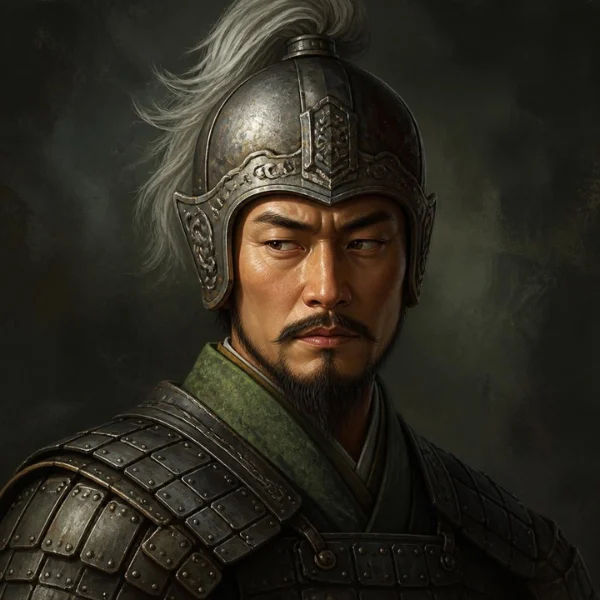
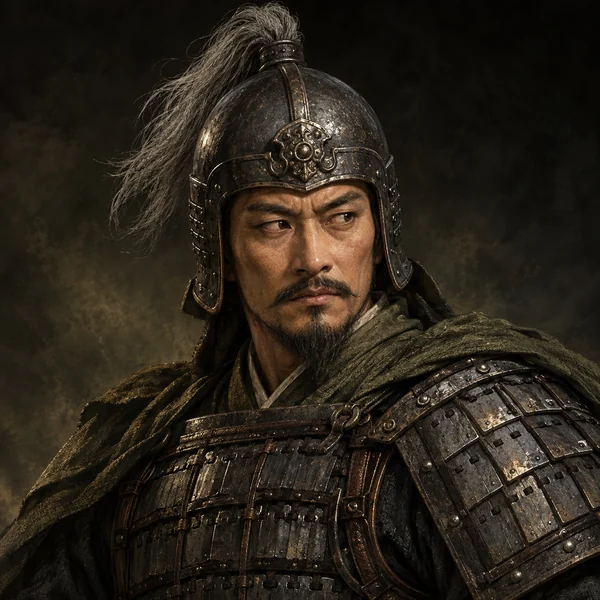
이름있는 장수 전용 전투 원화 28명 · 장비 초상 추가, 허저·맹달 초상 교체
Claude-Session: https://claude.ai/code/session_01MpPPA45aaRsErGnvA66if3

diff --git a/packages/web/src/officer-models.ts b/packages/web/src/officer-models.ts
@@ -46,6 +46,14 @@ export const officerManifest:OfficerEntry[]=[
   E('gao_shou','고수',c('gao_shou','bandit'),{duel:'officers/gao_shou-duel-v1.webp'}),E('guo_huai','곽회',c('guo_huai','archer'),{duel:'officers/guo_huai-duel-v1.webp'}),
   E('dai_ling','대릉',c('dai_ling','infantry'),{duel:'officers/dai_ling-duel-v1.webp'}),E('zhang_zhao','장소',c('zhang_zhao','strategist'),{duel:'officers/zhang_zhao-duel-v1.webp'}),E('zhuge_jin','제갈근',c('zhuge_jin','strategist'),{duel:'officers/zhuge_jin-duel-v1.webp'}),
   E('zhang_ba','장패',c('zhang_ba','cavalry'),{duel:'officers/zhang_ba-duel-v1.webp'}),E('cao_xiu','조휴',c('cao_xiu','cavalry'),{duel:'officers/cao_xiu-duel-v1.webp'}),E('cao_shuang','조상',c('cao_shuang','cavalry'),{duel:'officers/cao_shuang-duel-v1.webp'}),
+  // 이름있는 장수 전용 전신 원화(Codex 2026-10-11): 한 장 원화를 대기·준비·공격·피격 네 칸으로 펼친 시트.
+  E('jia_xu','가후',{wheelSage:['jia_xu-battle-v1.webp',384,384,1]}),E('yu_jin','우금',{spearman:['yu_jin-battle-v1.webp',384,384,1]}),E('yue_jin','악진',{infantry:['yue_jin-battle-v1.webp',384,384,1]}),E('deng_ai','등애',{infantry:['deng_ai-battle-v1.webp',384,384,1]}),
+  E('zhong_hui','종회',{fengshui:['zhong_hui-battle-v1.webp',384,384,1]}),E('hao_zhao','학소',{crossbow:['hao_zhao-battle-v1.webp',384,384,1]}),E('cao_hong','조홍',{infantry:['cao_hong-battle-v1.webp',384,384,1]}),E('cao_zhang','조창',{cavalry:['cao_zhang-battle-v1.webp',384,384,1]}),
+  E('wen_ping','문빙',{spearman:['wen_ping-battle-v1.webp',384,384,1]}),E('guan_ping','관평',{infantry:['guan_ping-battle-v1.webp',384,384,1]}),E('ma_dai','마대',{infantry:['ma_dai-battle-v1.webp',384,384,1]}),E('xu_sheng','서성',{spearman:['xu_sheng-battle-v1.webp',384,384,1]}),
+  E('ding_feng','정봉',{infantry:['ding_feng-battle-v1.webp',384,384,1]}),E('yan_liang','안량',{cavalry:['yan_liang-battle-v1.webp',384,384,1]}),E('wen_chou','문추',{cavalry:['wen_chou-battle-v1.webp',384,384,1]}),E('ju_shou','저수',{strategist:['ju_shou-battle-v1.webp',384,384,1]}),
+  E('tian_feng','전풍',{strategist:['tian_feng-battle-v1.webp',384,384,1]}),E('shen_pei','심배',{strategist:['shen_pei-battle-v1.webp',384,384,1]}),E('han_xin','한신',{spearman:['han_xin-battle-v1.webp',384,384,1]}),E('zhang_liang','장량',{strategist:['zhang_liang-battle-v1.webp',384,384,1]}),
+  E('xiao_he','소하',{fengshui:['xiao_he-battle-v1.webp',384,384,1]}),E('ying_bu','영포',{cavalry:['ying_bu-battle-v1.webp',384,384,1]}),E('peng_yue','팽월',{infantry:['peng_yue-battle-v1.webp',384,384,1]}),E('fan_kuai','번쾌',{cavalry:['fan_kuai-battle-v1.webp',384,384,1]}),
+  E('chen_ping','진평',{strategist:['chen_ping-battle-v1.webp',384,384,1]}),E('fan_zeng','범증',{strategist:['fan_zeng-battle-v1.webp',384,384,1]}),E('zhongli_mo','종리매',{cavalry:['zhongli_mo-battle-v1.webp',384,384,1]}),E('ji_bu','계포',{infantry:['ji_bu-battle-v1.webp',384,384,1]}),
 ];
 
 const legacySheets=[

diff --git a/packages/web/src/officer-factions.ts b/packages/web/src/officer-factions.ts
@@ -3,8 +3,8 @@ export type OfficerFaction='위'|'촉'|'오'|'군웅';
 export const OFFICER_FACTIONS:readonly OfficerFaction[]=['위','촉','오','군웅'];
 const of=(f:OfficerFaction,...ids:string[])=>ids.map(id=>[id,f] as const);
 export const OFFICER_FACTION:Record<string,OfficerFaction>=Object.fromEntries([
-  ...of('위','sima_yi','sima_yi_young','cao_zhen','sima_lang','sima_fang','sima_shi','sima_zhao','cao_cao','cao_pi','cao_rui','xu_chu','xiahou_dun','xiahou_yuan','zhang_liao','xu_huang','zhang_he','cao_ren','xun_yu','meng_da','wang_ling','guo_huai','cao_xiu','cao_shuang'),
-  ...of('촉','liu_bei','guan_yu','zhang_fei','wooden_zhuge','zhao_yun','huang_zhong','wei_yan','jiang_wei','pang_tong','ma_chao','ma_su','wang_ping','gao_xiang','meng_yan','dai_ling'),
-  ...of('오','sun_quan','zhou_yu','lu_xun','lu_meng','gan_ning','lu_su','huang_gai','lu_fan','sun_shao','zhu_ran','zhuge_ke','zhang_zhao','zhuge_jin','zhang_ba'),
-  ...of('군웅','lu_bu','xiang_yu','chen_gong','meng_huo','zhu_rong','gongsun_yuan','yuan_tan','yuan_shang','liu_bang','yang_ang','bi_yan','gao_shou'),
+  ...of('위','sima_yi','sima_yi_young','cao_zhen','sima_lang','sima_fang','sima_shi','sima_zhao','cao_cao','cao_pi','cao_rui','xu_chu','xiahou_dun','xiahou_yuan','zhang_liao','xu_huang','zhang_he','cao_ren','xun_yu','meng_da','wang_ling','guo_huai','cao_xiu','cao_shuang','jia_xu','yu_jin','yue_jin','deng_ai','zhong_hui','hao_zhao','cao_hong','cao_zhang','wen_ping'),
+  ...of('촉','liu_bei','guan_yu','zhang_fei','wooden_zhuge','zhao_yun','huang_zhong','wei_yan','jiang_wei','pang_tong','ma_chao','ma_su','wang_ping','gao_xiang','meng_yan','dai_ling','guan_ping','ma_dai'),
+  ...of('오','sun_quan','zhou_yu','lu_xun','lu_meng','gan_ning','lu_su','huang_gai','lu_fan','sun_shao','zhu_ran','zhuge_ke','zhang_zhao','zhuge_jin','zhang_ba','xu_sheng','ding_feng'),
+  ...of('군웅','lu_bu','xiang_yu','chen_gong','meng_huo','zhu_rong','gongsun_yuan','yuan_tan','yuan_shang','liu_bang','yang_ang','bi_yan','gao_shou','yan_liang','wen_chou','ju_shou','tian_feng','shen_pei','han_xin','zhang_liang','xiao_he','ying_bu','peng_yue','fan_kuai','chen_ping','fan_zeng','zhongli_mo','ji_bu'),
 ]);

diff --git a/packages/web/test/officer-models.test.ts b/packages/web/test/officer-models.test.ts
@@ -24,8 +24,8 @@ function webpSize(file:URL){
 describe('장수별 전투 SD와 대결 모델',()=>{
   const players=[['sima_yi','사마의'],['cao_zhen','조진'],['sima_lang','사마랑'],['sima_fang','사마방'],['sima_shi','사마사'],['sima_zhao','사마소']] as const;
 
-  it('대상 64명과 모든 공개 시트를 색인한다',()=>{
-    expect(officerManifest).toHaveLength(64);
+  it('대상 92명(전용 전신 원화 28명 포함)과 모든 공개 시트를 색인한다',()=>{
+    expect(officerManifest).toHaveLength(92);
     const sheets=new Set(officerModelSheets.map(s=>s.id));
     for(const entry of officerManifest)for(const battle of Object.values(entry.battle))expect(sheets.has(battle.sheet),battle.sheet).toBe(true);
   });

diff --git a/docs/tech/지속개발-현황.md b/docs/tech/지속개발-현황.md
@@ -1613,6 +1613,13 @@ npm run dev → http://127.0.0.1:5173. Windows 대괄호 경로는 PowerShell -L
   - 가상 전장 81곳 평균 99.5%(최저 90%). 외전 33개 90~100%(10판).
   - `expedition-objective-play.test.ts`에 규칙판 7 외전 시험을 더했다.
 
+## 이름있는 장수 전용 원화 28명 · 장비 초상 (2026-10-11)
+
+- Codex가 sama 저장소 `codex/officer-portraits` 브랜치(옛 코드 기반)에 올린 그림을 이 게임으로 옮겼다. 코드는 옛 코드에 맞춘 것이라 가져오지 않고, 그림만 지금 구조에 연결했다.
+- 전투 원화 28명(가후·우금·악진·등애·종회·학소·조홍·조창·문빙·관평·마대·서성·정봉·안량·문추·저수·전풍·심배·한신·장량·소하·영포·팽월·번쾌·진평·범증·종리매·계포): 512×512 한 장 원화를 384칸 네 칸 시트(대기·준비·공격·피격, 발끝 축 기울기)로 펼쳐 `public/officers/<id>-battle-v1.webp`에 두고 `officerManifest`·`manifest.json`·`OFFICER_FACTION`에 등록. 전장·일기토·설전에서 전용 모습으로 보인다.
+- 초상: 장비 새 초상(`zhang-fei.webp`), 허저·맹달 초상 교체(출처 기록 없던 옛 그림 대신 새로 그린 것). 2.5MB PNG를 600×600 webp로 줄였다.
+- 남은 점: 조창·안량·문추·영포·번쾌·종리매는 게임에서 기병인데 원화가 걸어서 싸우는 모습이다.
+
 ## 규칙판 10 — 모든 이름있는 장수는 병종 특성 + 고유특성
 
 새 전투는 규칙판 10(`RULES=10`)을 쓴다. 옛 저장 재생은 저장된 규칙판 그대로다.
